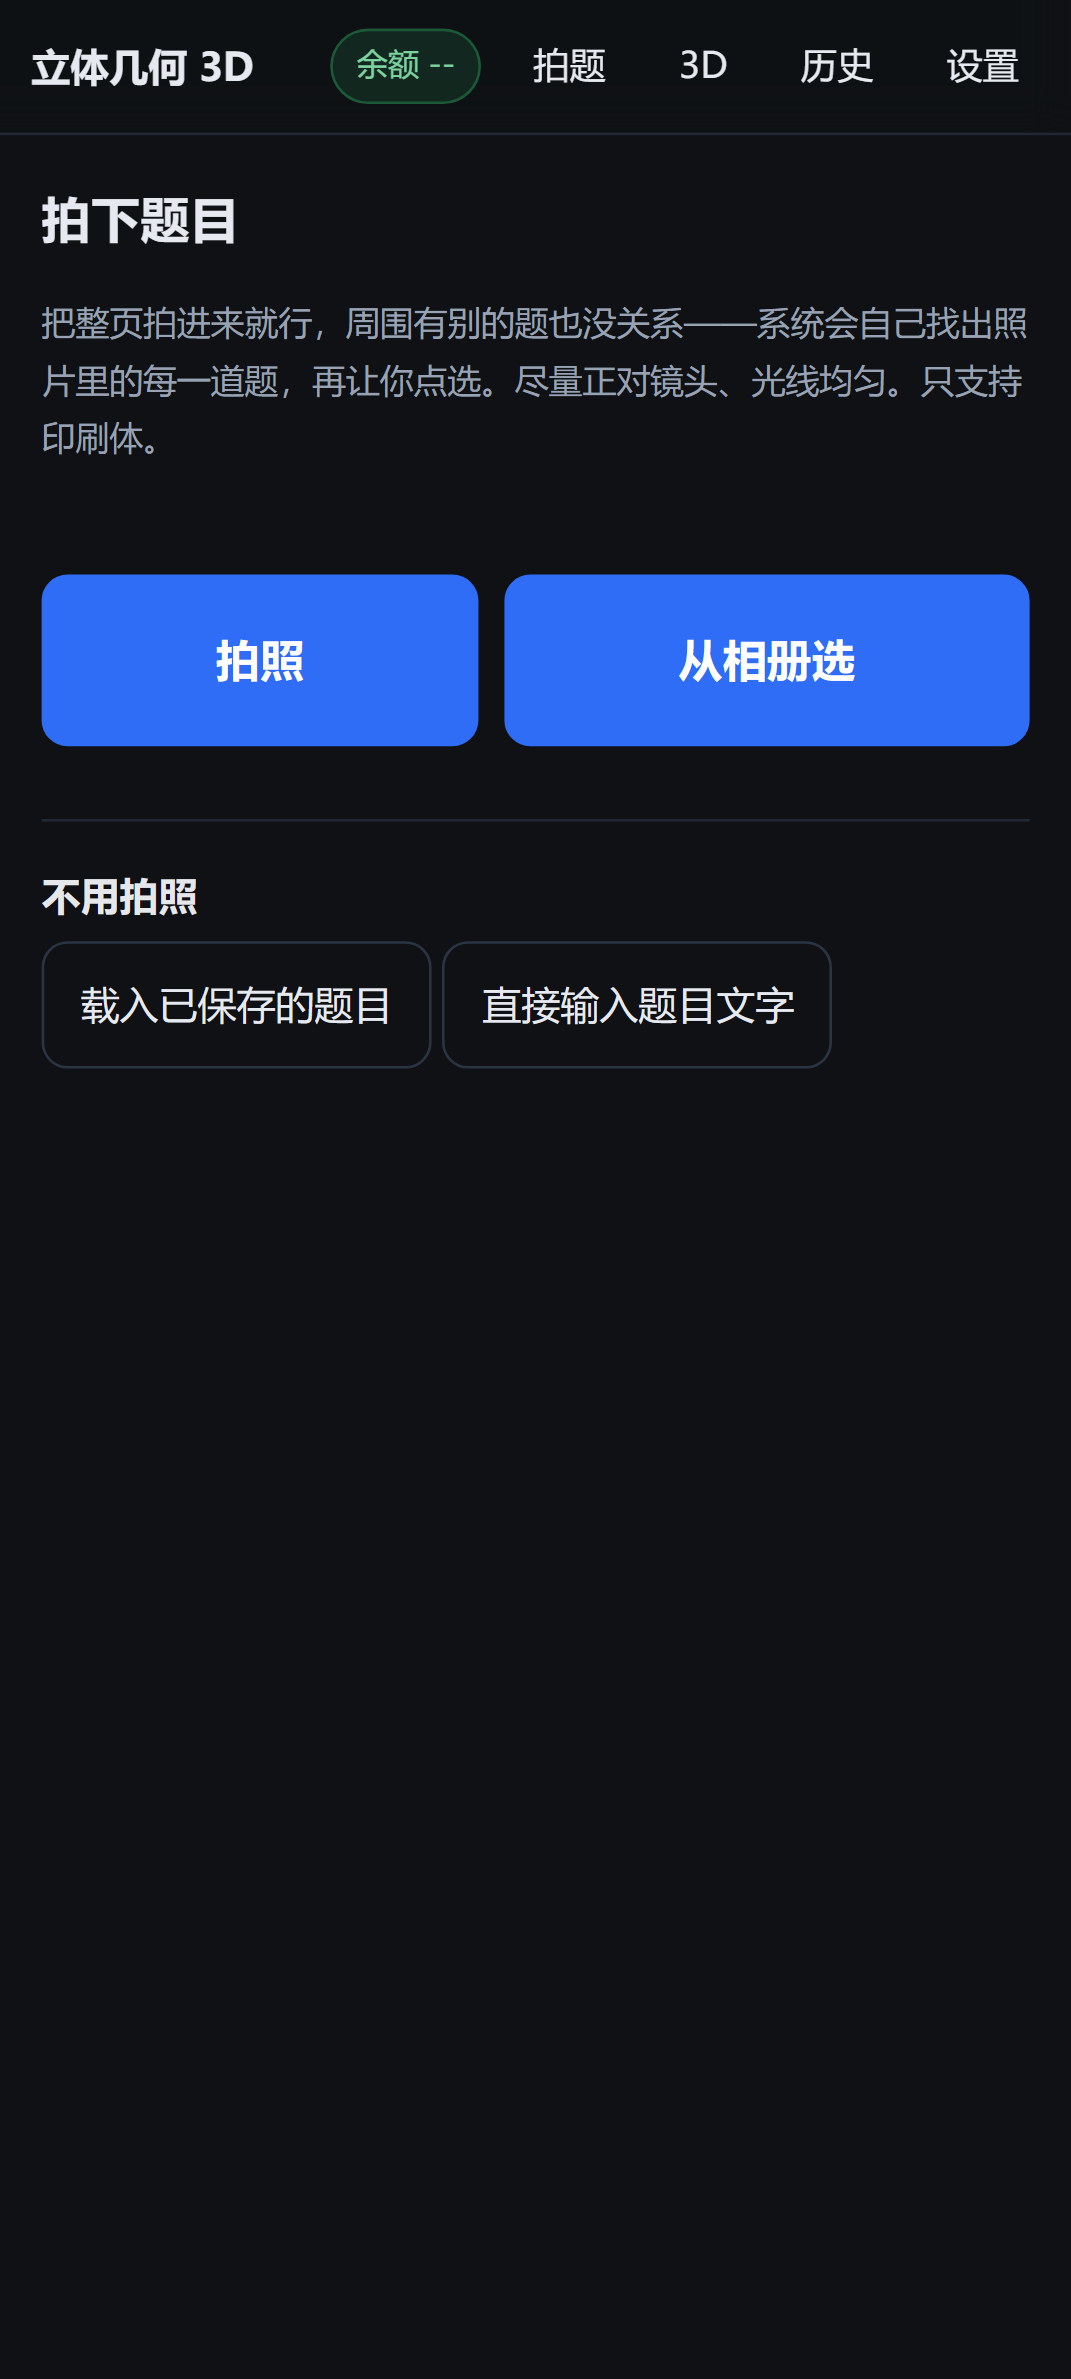
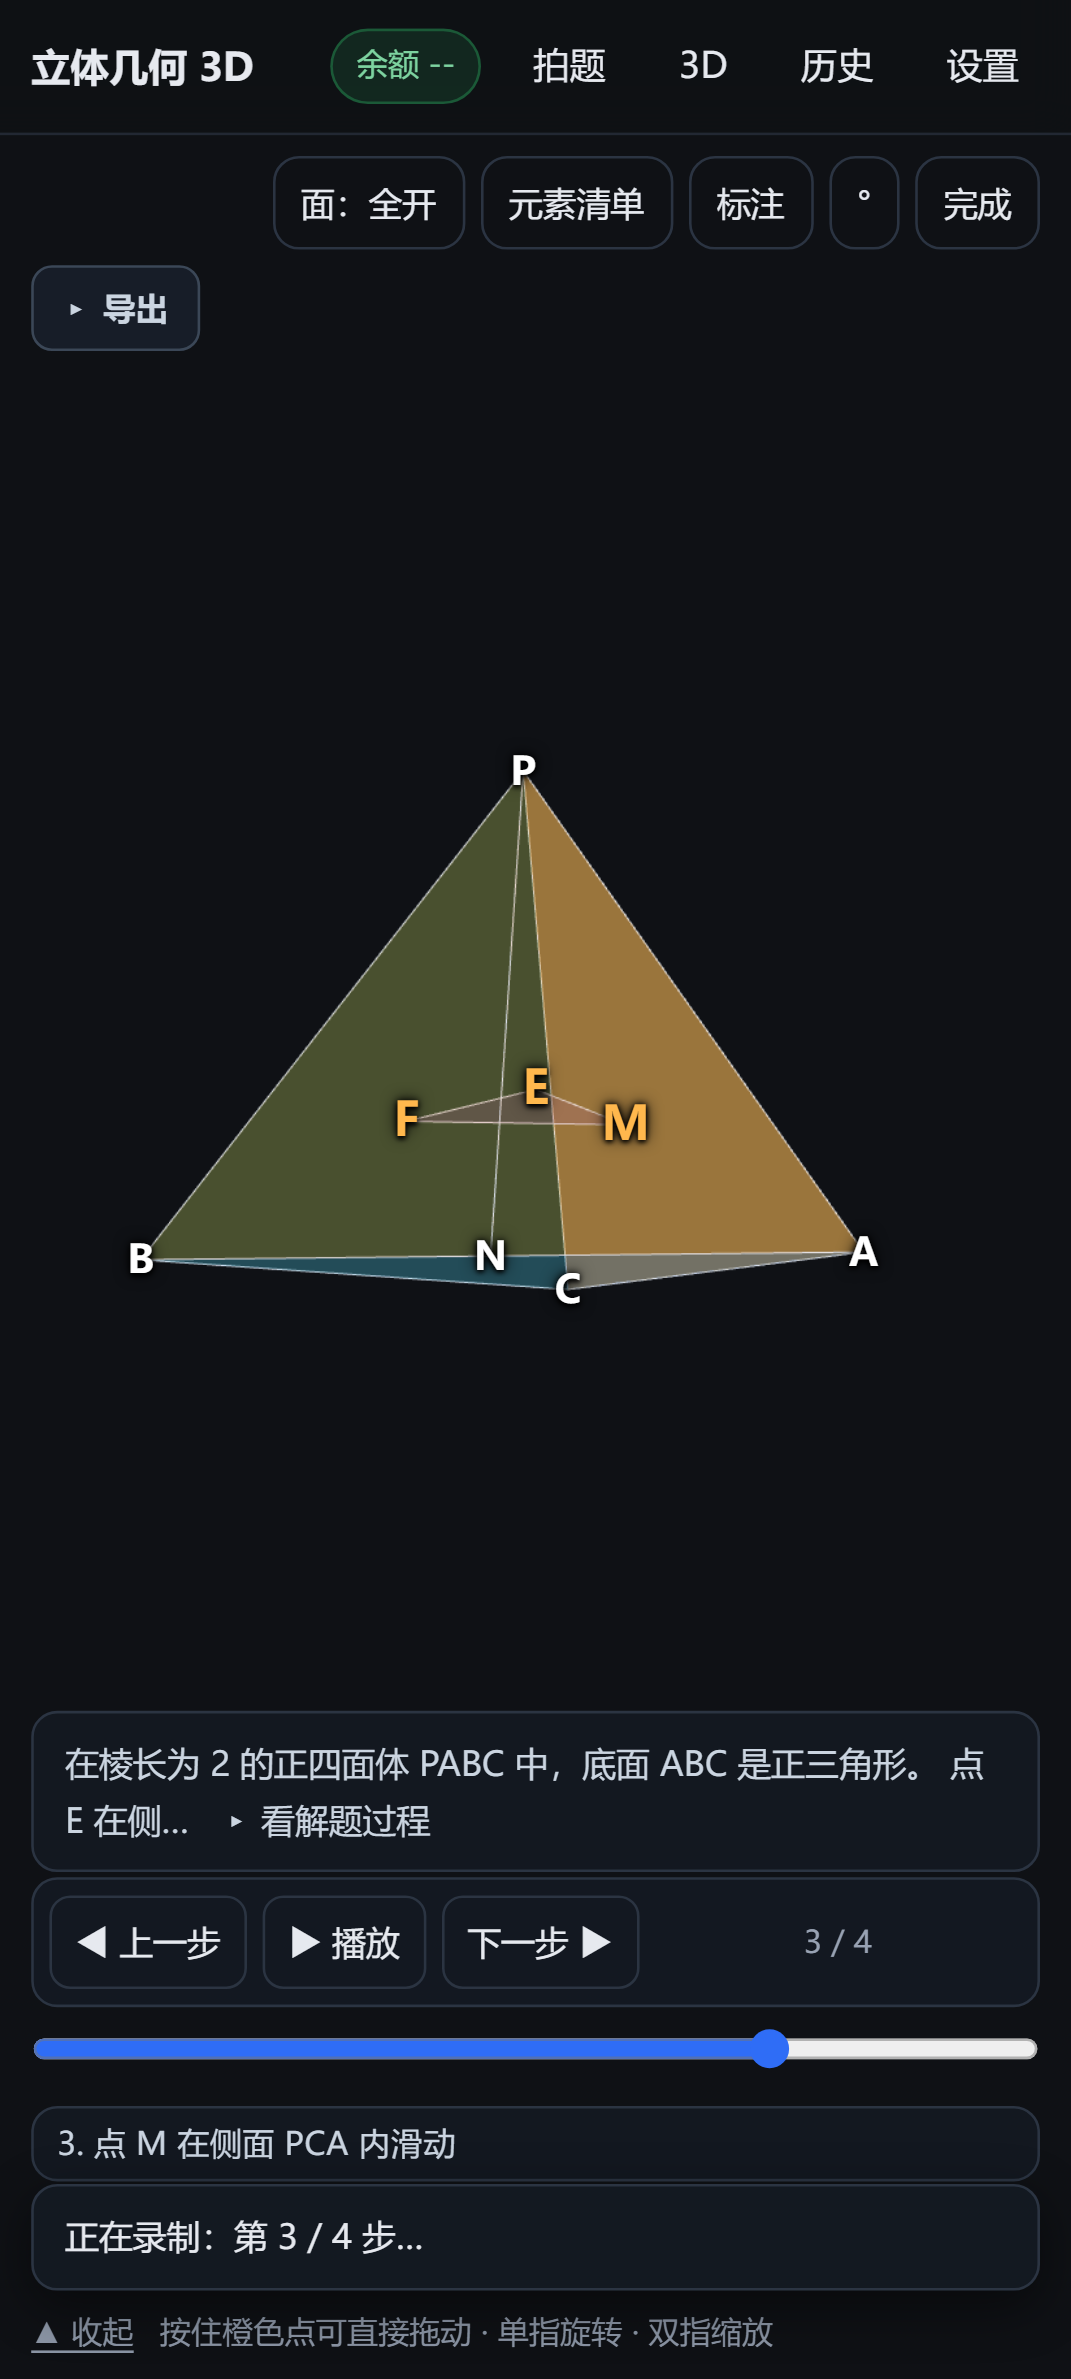
准备公网部署：vercel.json + 删掉录视频的临时探针（1.0.0-my.21）
用户问「不在这个局域网里还能不能用」—— 不能：现在用的是 192.168.1.11 这种路由器分的局域网地址，换个网络就打不开。

这个应用天生适合部署到公网：它是纯静态站点、没有自己的后端、没有数据库，API Key 存在手机 localStorage 里（不写进代码、也不经过任何第三方服务器），所以部署出去别人也看不到你的 Key。公共托管平台还给真证书，离线反而比自签证书更稳。

vercel.json：buildCommand=pnpm build、outputDirectory=dist、SPA 重写、sw.js 加 no-cache 与 Service-Worker-Allowed（离线那份缓存要靠它）。

顺带删掉录视频排查用的临时探针 window.__recTick/__recI —— 那条 bug 还没修完（已确定 nextStep 只被调 2 次、之后 setTimeout 不触发），但探针不该留在仓库里。

diff --git a/src/main.ts b/src/main.ts
@@ -1852,13 +1852,24 @@ function exportVideo(): void {
   const HOLD_MS = 900
   // 每帧把最新的画面画进那张正在被录的画布
   let alive = true
-  const tick = () => {
+  let lastDraw = 0
+  // **必须限流。**
+  // 踩过：原来是每一帧都调 compositeFrame() —— 而那个函数要新建一张画布、重画、
+  // **还要逐个测量所有标注并取计算样式**（getBoundingClientRect + getComputedStyle，
+  // 典型的强制重排）。结果主线程被它占死，**setTimeout 被饿死** ——
+  // 表现就是录制进度停在第 2 / 4 步一动不动，而且没有任何错误（不是异常，是轮不到）。
+  // 12fps 对录制完全够用（成片本来就是 30fps 的流），主线程就腾出来了。
+  const FRAME_MS = 1000 / 12
+  const tick = (now: number) => {
     if (!alive) return
-    const f = compositeFrame()
-    const ctx = first.getContext('2d')
-    if (f && ctx) {
-      ctx.clearRect(0, 0, first.width, first.height)
-      ctx.drawImage(f, 0, 0)
+    if (now - lastDraw >= FRAME_MS) {
+      lastDraw = now
+      const f = compositeFrame()
+      const ctx = first.getContext('2d')
+      if (f && ctx) {
+        ctx.clearRect(0, 0, first.width, first.height)
+        ctx.drawImage(f, 0, 0)
+      }
     }
     requestAnimationFrame(tick)
   }
